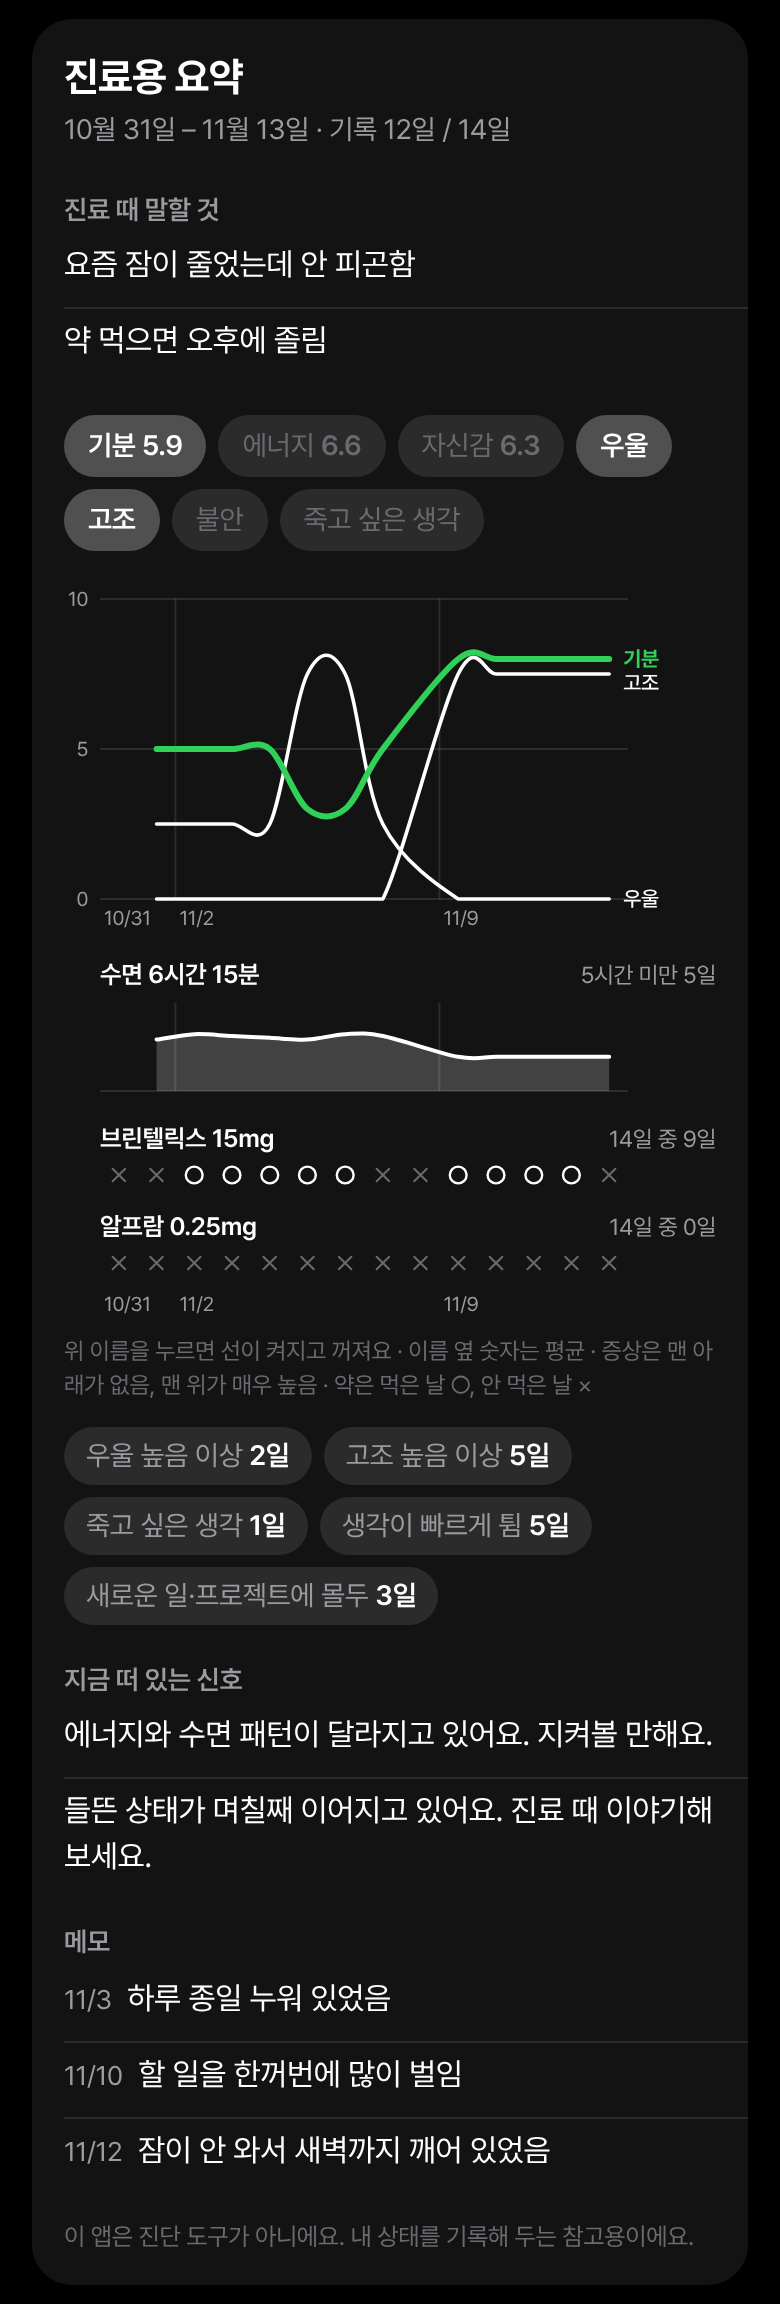
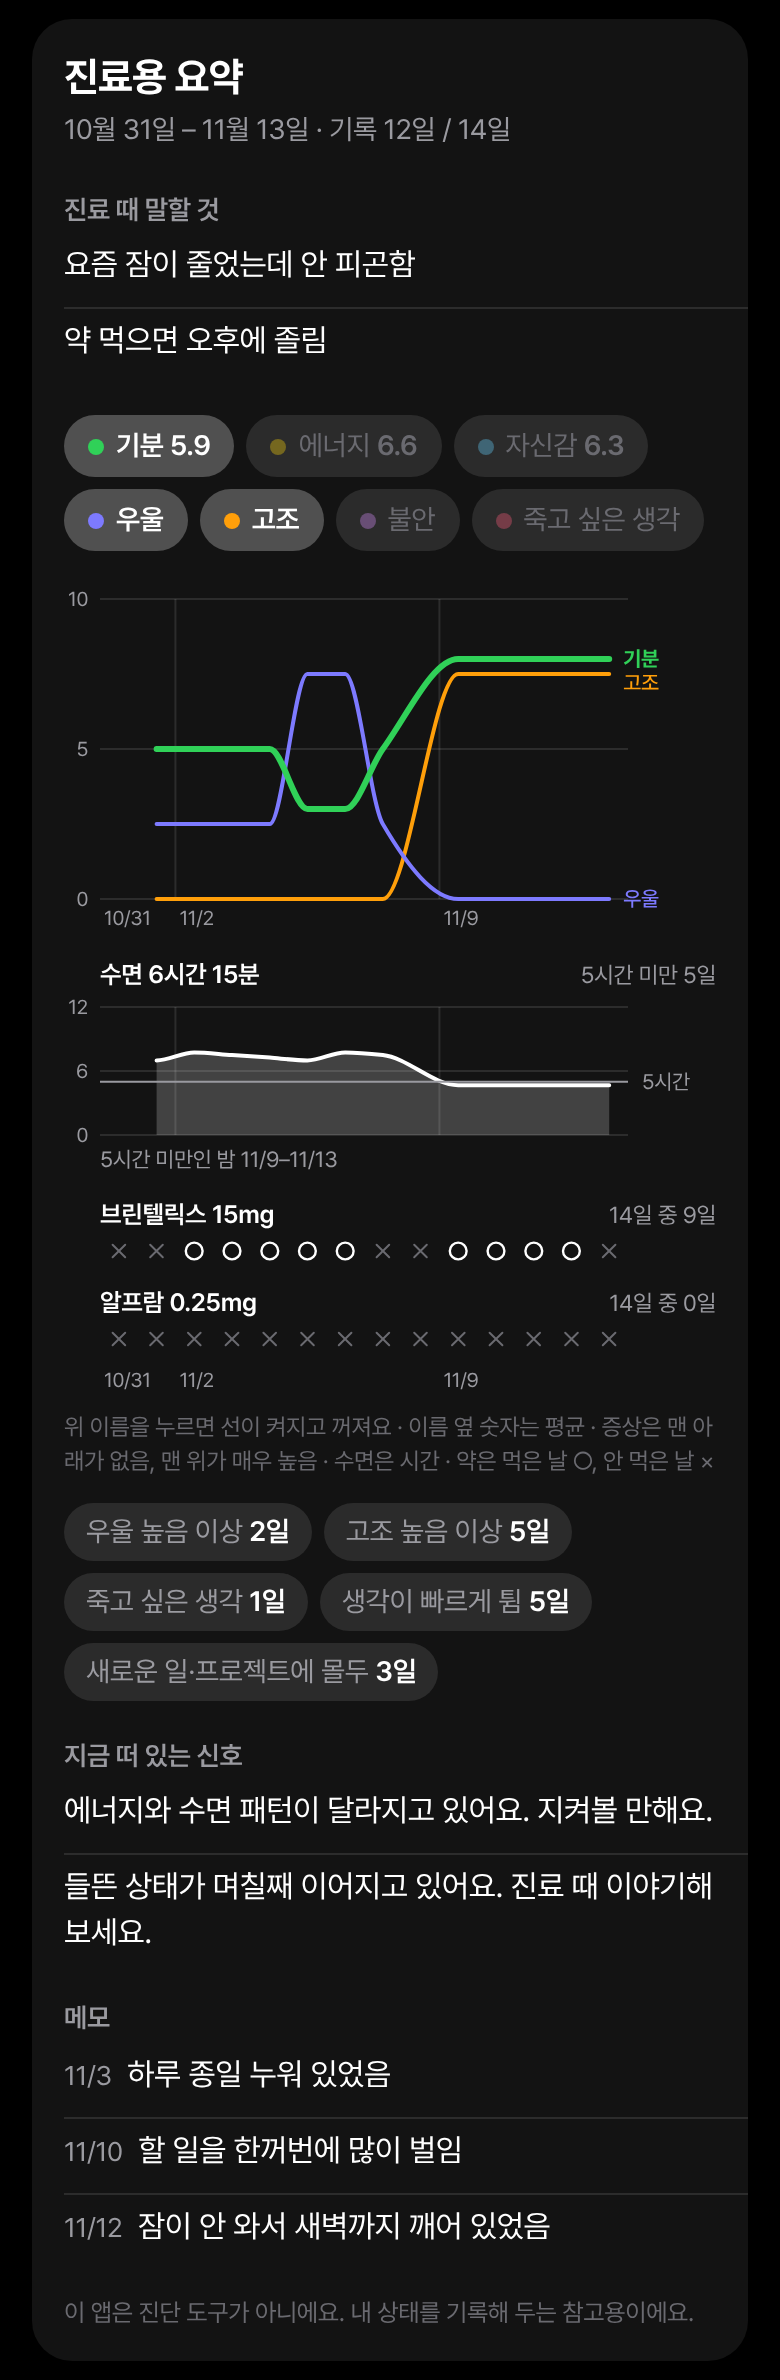
Tide: rounder curves, a colour per line in the clinic chart, and a 5-hour line on sleep
Curves use monotone cubic interpolation, so they settle onto the floor without sharp corners or overshoot (trend screen too). The clinic chart gives each line its own colour because overlapping same-coloured lines could not be told apart; this is the one exception to the single-colour rule and is noted in CLAUDE.md. The sleep row has hour labels, a 5-hour reference line and the dates of short nights in words.

Claude-Session: https://claude.ai/code/session_01Du4KAy7crrN67i73oW7iBF

diff --git a/mood/js/views/clinic.js b/mood/js/views/clinic.js
@@ -1,5 +1,5 @@
 // 진료 화면: 다음 진료일, 진료 때 말할 것, 진료용 요약 (최근 2주/4주를 한 장으로)
-import { summary } from '../analysis.js';
+import { SHORT_SLEEP, summary } from '../analysis.js';
 import { DISCLAIMER, LEVELS } from '../constants.js';
 import { durText, md, parse, today } from '../dates.js';
 import { app, esc } from '../dom.js';
@@ -31,6 +31,19 @@ const lineDefs = () => [
   ['dep', T('우울'), 4], ['elev', T('고조'), 4], ['anx', T('불안'), 4], ['si', T('죽고 싶은 생각'), 4],
 ];
 
+// 선마다 색이 다르다 (한 그래프에 여러 선을 겹쳐도 구분되도록, 이 그래프에서만). 기분은 설정에서 고른 색.
+const lineColor = (key) => (key === 'mood' ? tone('mood', 10) || 'var(--ink)' : `var(--l-${key})`);
+
+// 이어진 날짜는 묶어서 적는다: 11/9–11/13, 11/20
+function dateRanges(list) {
+  const runs = [];
+  list.forEach((d) => {
+    const last = runs[runs.length - 1];
+    if (last && Math.round((parse(d) - parse(last[1])) / 86400000) === 1) last[1] = d; else runs.push([d, d]);
+  });
+  return runs.map(([a, b]) => (a === b ? shortDate(a) : `${shortDate(a)}–${shortDate(b)}`)).join(', ');
+}
+
 // 한눈에 보는 그림: 날짜를 가로로 맞춰 놓고
 //   큰 그래프 하나(켜 둔 선들, 선 끝에 이름) → 수면(곡선) → 약(먹은 날 ○, 안 먹은 날 ×) → 생리(○)
 // 를 위에서 아래로 쌓는다. 선은 전부 부드러운 실선이다. 색은 CSS 변수를 따라가서 다크·라이트·인쇄에서 그대로 읽힌다.
@@ -39,7 +52,6 @@ function figure(s, width) {
   const n = s.dates.length, L = 18, R = clinicView.lines.includes('si') ? 80 : 44, pw = width - L - R, col = pw / n;
   const cx = (i) => L + col * (i + 0.5);
   const ink = 'style="fill:var(--ink)"', mutedText = 'style="fill:var(--muted)"';
-  const accent = tone('mood', 10) || 'var(--ink)';
   const marks = s.dates.map((d, i) => (i === 0 || parse(d).getDay() === 1 ? i : -1)).filter((i) => i >= 0);
   let out = '', y = 6;
 
@@ -56,10 +68,10 @@ function figure(s, width) {
   });
   const points = (key, yOf) => s.days.map((e, i) => (e && e[key] != null ? [cx(i), yOf(e[key])] : null)).filter(Boolean);
   // 값이 있는 날들을 부드러운 곡선으로 잇는다 (하루뿐이면 점 하나). area가 있으면 곡선 아래를 옅게 채운다.
-  const curve = (pts, yMin, yMax, color, w, area) => {
+  const curve = (pts, color, w, areaTo) => {
     if (pts.length < 2) { pts.forEach((p) => { out += `<circle cx="${p[0].toFixed(1)}" cy="${p[1].toFixed(1)}" r="2.6" style="fill:${color}"/>`; }); return; }
-    const d = smoothPath(pts, yMin, yMax);
-    if (area) out += `<path d="${d}L${pts[pts.length - 1][0].toFixed(1)},${yMax}L${pts[0][0].toFixed(1)},${yMax}Z" style="fill:var(--fill)" stroke="none"/>`;
+    const d = smoothPath(pts);
+    if (areaTo) out += `<path d="${d}L${pts[pts.length - 1][0].toFixed(1)},${areaTo}L${pts[0][0].toFixed(1)},${areaTo}Z" style="fill:var(--fill)" stroke="none"/>`;
     out += `<path d="${d}" fill="none" stroke-linejoin="round" stroke-linecap="round" style="stroke:${color}" stroke-width="${w}"/>`;
   };
   const floor = (at) => { out += `<line x1="${L}" x2="${L + pw}" y1="${at}" y2="${at}" style="stroke:var(--line)"/>`; };
@@ -72,9 +84,8 @@ function figure(s, width) {
   lineDefs().filter(([key]) => clinicView.lines.includes(key)).reverse().forEach(([key, name, max]) => {
     const pts = points(key, (v) => sy(v / max * 10));
     if (!pts.length) return;
-    const color = key === 'mood' ? accent : max === 10 ? 'var(--muted)' : 'var(--ink)';
-    curve(pts, top, top + SH, color, key === 'mood' ? 3 : 1.8);
-    ends.push({ name, color, x: pts[pts.length - 1][0] + 7, y: pts[pts.length - 1][1] + 3.5, bold: key === 'mood' });
+    curve(pts, lineColor(key), key === 'mood' ? 3 : 2);
+    ends.push({ name, color: lineColor(key), x: pts[pts.length - 1][0] + 7, y: pts[pts.length - 1][1] + 3.5, bold: key === 'mood' });
   });
   ends.sort((a, b) => a.y - b.y).forEach((e, i) => {
     if (i && e.y < ends[i - 1].y + 12) e.y = ends[i - 1].y + 12;
@@ -83,13 +94,19 @@ function figure(s, width) {
   dateLabels(top + SH + 13);
   y = top + SH + 42;
 
-  // 2. 수면 (0~12시간)
+  // 2. 수면 (0~12시간): 5시간 높이에 기준선을 그어서 그 아래로 내려간 밤이 보이게 하고, 그 날짜를 글로도 적는다
   head(`${T('수면')}${s.sleep ? ` ${durText(Math.round(s.sleep.avg))}` : ''}`, s.shortSleep.length ? F('5시간 미만 {0}일', s.shortSleep.length) : '');
-  const BH = 44, sTop = y + 10, base = sTop + BH;
+  const BH = 64, sTop = y + 12, base = sTop + BH, slY = (m) => base - Math.min(m, 720) / 720 * BH;
+  [0, 6, 12].forEach((h) => { floor(slY(h * 60)); out += `<text x="${L - 6}" y="${slY(h * 60) + 3.5}" font-size="10" text-anchor="end" ${mutedText}>${h}</text>`; });
   weekLines(sTop, base);
-  curve(points('sleepMin', (m) => base - Math.min(m, 720) / 720 * BH), sTop, base, 'var(--ink)', 2, true);
-  floor(base);
-  y = base + 28;
+  curve(points('sleepMin', slY), 'var(--ink)', 2, base);
+  out += `<line x1="${L}" x2="${L + pw}" y1="${slY(SHORT_SLEEP)}" y2="${slY(SHORT_SLEEP)}" style="stroke:var(--muted)"/><text x="${L + pw + 7}" y="${slY(SHORT_SLEEP) + 3.5}" font-size="10.5" ${mutedText}>${T('5시간')}</text>`;
+  y = base + 16;
+  if (s.shortSleep.length) {
+    out += `<text x="${L}" y="${y}" font-size="11" ${mutedText}>${T('5시간 미만인 밤')} ${dateRanges(s.shortSleep)}</text>`;
+    y += 14;
+  }
+  y += 14;
 
   // 3. 약 · 생리: 얇은 선으로 먹은 날 ○, 안 먹은 날 ×
   const r = Math.max(2, Math.min(col / 2 - 1.5, 4.2));
@@ -137,7 +154,7 @@ export function summaryHtml(weeks) {
   const s = summary(weeks), talk = clinicData().notes;
   const width = Math.max(240, Math.min(app.clientWidth, 480) - 32 - 32);
   // 큰 그래프의 선을 켜고 끄는 단추: 기분·에너지·자신감은 평균을 옆에 적는다
-  const toggles = lineDefs().map(([key, name, max]) => `<button class="sum-tog" data-act="clinicLine" data-k="${key}" aria-pressed="${clinicView.lines.includes(key)}">${name}${max === 10 && s[key] ? ` <b>${one(s[key].avg)}</b>` : ''}</button>`).join('');
+  const toggles = lineDefs().map(([key, name, max]) => `<button class="sum-tog" data-act="clinicLine" data-k="${key}" aria-pressed="${clinicView.lines.includes(key)}"><i style="background:${lineColor(key)}"></i>${name}${max === 10 && s[key] ? ` <b>${one(s[key].avg)}</b>` : ''}</button>`).join('');
   // 눈에 띄는 것은 짧은 딱지로: 며칠인지만 적는다
   const chips = [
     [T('우울 높음 이상'), s.high.dep.length], [T('고조 높음 이상'), s.high.elev.length], [T('불안 높음 이상'), s.high.anx.length],
@@ -148,7 +165,7 @@ export function summaryHtml(weeks) {
     ${talk.length ? `<div class="sum-h">${T('진료 때 말할 것')}</div>${talk.map((x) => `<div class="li say">${esc(x)}</div>`).join('')}` : ''}
     <div class="sum-togs">${toggles}</div>
     <div class="sum-fig">${figure(s, width)}</div>
-    <p class="sum-key">${T('위 이름을 누르면 선이 켜지고 꺼져요 · 이름 옆 숫자는 평균 · 증상은 맨 아래가 없음, 맨 위가 매우 높음 · 약은 먹은 날 ○, 안 먹은 날 ×')}</p>
+    <p class="sum-key">${T('위 이름을 누르면 선이 켜지고 꺼져요 · 이름 옆 숫자는 평균 · 증상은 맨 아래가 없음, 맨 위가 매우 높음 · 수면은 시간 · 약은 먹은 날 ○, 안 먹은 날 ×')}</p>
     ${chips ? `<div class="sum-chips">${chips}</div>` : ''}
     ${s.signals.length ? `<div class="sum-h">${T('지금 떠 있는 신호')}</div>${s.signals.map((x) => `<div class="li say">${esc(x)}</div>`).join('')}` : ''}
     ${s.notes.length ? `<div class="sum-h">${T('메모')}</div>${s.notes.map(([d, note]) => `<div class="li say note"><small>${shortDate(d)}</small> ${esc(note)}</div>`).join('')}` : ''}

diff --git a/mood/js/views/trend.js b/mood/js/views/trend.js
@@ -26,15 +26,25 @@ export const mean = (list, key) => {
 export const rangeEntries = (r) => Array.from({ length: r.n }, (_, i) => db.entries[addDays(r.start, i)] || null);
 
 // 점들을 부드러운 곡선으로 잇는다
-export function smoothPath(pts, yMin, yMax) {
+// 꼭대기·바닥·평평한 구간에서는 기울기를 0으로 두어서(단조 3차 곡선), 선이 값 밖으로 튀지 않고
+// 바닥에 닿을 때도 뾰족하게 꺾이지 않고 둥글게 내려앉는다.
+export function smoothPath(pts) {
   if (!pts.length) return '';
+  const n = pts.length, slope = [], tan = [];
+  for (let i = 0; i < n - 1; i++) slope.push((pts[i + 1][1] - pts[i][1]) / (pts[i + 1][0] - pts[i][0]));
+  for (let i = 0; i < n; i++) {
+    const a = slope[i - 1], b = slope[i];
+    if (a == null || b == null) tan.push(0);
+    else if (a * b <= 0) tan.push(0);
+    else {
+      const h0 = pts[i][0] - pts[i - 1][0], h1 = pts[i + 1][0] - pts[i][0];
+      tan.push(3 * (h0 + h1) / ((2 * h1 + h0) / a + (h1 + 2 * h0) / b));
+    }
+  }
   let d = `M${pts[0][0].toFixed(1)},${pts[0][1].toFixed(1)}`;
-  const clamp = (y) => Math.max(yMin, Math.min(yMax, y));
-  for (let i = 0; i < pts.length - 1; i++) {
-    const p0 = pts[i - 1] || pts[i], p1 = pts[i], p2 = pts[i + 1], p3 = pts[i + 2] || p2;
-    const c1 = [p1[0] + (p2[0] - p0[0]) / 6, clamp(p1[1] + (p2[1] - p0[1]) / 6)];
-    const c2 = [p2[0] - (p3[0] - p1[0]) / 6, clamp(p2[1] - (p3[1] - p1[1]) / 6)];
-    d += `C${c1[0].toFixed(1)},${c1[1].toFixed(1)} ${c2[0].toFixed(1)},${c2[1].toFixed(1)} ${p2[0].toFixed(1)},${p2[1].toFixed(1)}`;
+  for (let i = 0; i < n - 1; i++) {
+    const p1 = pts[i], p2 = pts[i + 1], h = (p2[0] - p1[0]) / 3;
+    d += `C${(p1[0] + h).toFixed(1)},${(p1[1] + tan[i] * h).toFixed(1)} ${(p2[0] - h).toFixed(1)},${(p2[1] - tan[i + 1] * h).toFixed(1)} ${p2[0].toFixed(1)},${p2[1].toFixed(1)}`;
   }
   return d;
 }
@@ -95,7 +105,7 @@ export function viewTrend() {
     let out = `<defs><linearGradient id="g-${key}" x1="0" y1="0" x2="0" y2="1"><stop offset="0" stop-color="${ink}" stop-opacity=".26"/><stop offset="1" stop-color="${ink}" stop-opacity="0"/></linearGradient></defs>`;
     out += grid(ticks, y);
     if (pts.length > 1) {
-      const d = smoothPath(pts, TOP, BOT);
+      const d = smoothPath(pts);
       out += `<path d="${d}L${pts[pts.length - 1][0].toFixed(1)},${BOT}L${pts[0][0].toFixed(1)},${BOT}Z" fill="url(#g-${key})"/>
         <path d="${d}" fill="none" stroke="${ink}" stroke-width="${isWeek ? 2.5 : 2}" stroke-linecap="round" stroke-linejoin="round"/>`;
     }

diff --git a/mood/app.css b/mood/app.css
@@ -36,11 +36,24 @@
   --safe-b: env(safe-area-inset-bottom, 0px);
   --round: ui-rounded, "SF Pro Rounded", var(--font, -apple-system, BlinkMacSystemFont, sans-serif);
   --blur: blur(26px) saturate(150%);
+  /* 진료용 요약의 큰 그래프에서만 쓰는 선 색 (여러 선을 겹쳐도 구분되도록) */
+  --l-energy: #ffd60a;
+  --l-conf: #64d2ff;
+  --l-dep: #7d7aff;
+  --l-elev: #ff9f0a;
+  --l-anx: #da8fff;
+  --l-si: #ff5c7a;
 }
 :root[data-theme=light] {
   color-scheme: light;
   /* 라이트는 대비를 낮춘다: 새까만 색 대신 짙은 회색, 바탕은 아이폰 설정 화면의 옅은 회색 */
   --bg: #f2f2f7;
+  --l-energy: #d19a00;
+  --l-conf: #1e96d1;
+  --l-dep: #5856d6;
+  --l-elev: #f07800;
+  --l-anx: #af52de;
+  --l-si: #e6294f;
   --ink: #3a3a3c;
   --ink-inv: #fff;
   --text: #1d1d1f;
@@ -339,7 +352,8 @@ input[type=date] { border: 0; outline: none; background: var(--card2); color: va
 
 /* 인쇄·PDF: 요약 한 장만, 흰 바탕에 검은 글씨로 */
 @media print {
-  :root, :root[data-theme=light] { --bg: #fff; --text: #000; --ink: #000; --muted: #444; --faint: #777; --line: #ccc; --card: transparent; --card2: transparent; --shadow: none; }
+  :root, :root[data-theme=light] { --bg: #fff; --text: #000; --ink: #000; --muted: #444; --faint: #777; --line: #ccc; --card: transparent; --card2: transparent; --shadow: none;
+    --l-energy: #d19a00; --l-conf: #1e96d1; --l-dep: #5856d6; --l-elev: #f07800; --l-anx: #af52de; --l-si: #e6294f; }
   body::before, .tabbar, .toast, .sheet { display: none !important; }
   body * { visibility: hidden; }
   #summary, #summary * { visibility: visible; }
@@ -368,6 +382,8 @@ input[type=date] { border: 0; outline: none; background: var(--card2); color: va
 .sum-togs { display: flex; flex-wrap: wrap; gap: 6px; padding: 16px 16px 0; }
 .sum-tog { background: var(--card2); border-radius: 999px; padding: 6px 12px; font-size: calc(12.5px * var(--fs, 1.12)); color: var(--faint); }
 .sum-tog b { font-family: var(--round); font-weight: 600; }
+.sum-tog i { display: inline-block; width: 8px; height: 8px; border-radius: 50%; margin-right: 6px; opacity: .35; }
+.sum-tog[aria-pressed=true] i { opacity: 1; }
 .sum-tog[aria-pressed=true] { background: var(--sel); color: var(--text); font-weight: 600; }
 .sum-fig { padding: 18px 16px 0; }
 .sum-fig svg { display: block; overflow: visible; font-family: inherit; }

diff --git a/mood/js/i18n.js b/mood/js/i18n.js
@@ -50,7 +50,9 @@ const DICT = {
   '추가': 'Add',
   '진료용 요약': 'Summary for your appointment',
   '평균 (가장 낮은 날–가장 높은 날)': 'Average (lowest–highest day)',
-  '위 이름을 누르면 선이 켜지고 꺼져요 · 이름 옆 숫자는 평균 · 증상은 맨 아래가 없음, 맨 위가 매우 높음 · 약은 먹은 날 ○, 안 먹은 날 ×': 'Tap a name above to show or hide its line · numbers beside names are averages · symptoms run from none at the bottom to very high at the top · medication: ○ taken, × not taken',
+  '위 이름을 누르면 선이 켜지고 꺼져요 · 이름 옆 숫자는 평균 · 증상은 맨 아래가 없음, 맨 위가 매우 높음 · 수면은 시간 · 약은 먹은 날 ○, 안 먹은 날 ×': 'Tap a name above to show or hide its line · numbers beside names are averages · symptoms run from none at the bottom to very high at the top · sleep is in hours · medication: ○ taken, × not taken',
+  '5시간': '5 h',
+  '5시간 미만인 밤': 'Nights under 5 h:',
   '5시간 미만 {0}일': 'Under 5 h on {0} days',
   '눈에 띄는 날': 'Days that stand out',
   '지금 떠 있는 신호': 'Current signals',

diff --git a/mood/sw.js b/mood/sw.js
@@ -1,7 +1,7 @@
 // 오프라인에서도 열리도록 앱 파일을 저장해 둔다.
 // 인터넷이 될 때는 항상 최신 파일을 먼저 받아오고, 안 될 때만 저장본을 쓴다.
 // 앱 파일을 바꿔서 올릴 때마다 CACHE 숫자를 하나 올린다. js/ 에 파일을 더하면 JS 목록에도 더한다.
-const CACHE = 'tide-v48';
+const CACHE = 'tide-v49';
 const JS = ['main', 'config', 'i18n', 'constants', 'store', 'dates', 'theme', 'icons', 'dom', 'state', 'meds', 'analysis', 'files', 'render', 'swipe', 'lock',
   'views/today', 'views/trend', 'views/insight', 'views/record', 'views/settings', 'views/clinic', 'views/notes'];
 const FILES = ['./', 'index.html', 'app.css', 'manifest.webmanifest',

diff --git a/mood/js/config.js b/mood/js/config.js
@@ -2,4 +2,4 @@
 export const KEY = 'tide.v1', OLD_KEY = 'harugyeol.v1';
 
 // 설정 화면 맨 아래에 보이는 번호. 올릴 때마다 sw.js의 CACHE 숫자와 같이 하나 올린다.
-export const VERSION = 48;
+export const VERSION = 49;

diff --git a/CLAUDE.md b/CLAUDE.md
@@ -34,6 +34,7 @@
 - 트위터 연동, 앱이 직접 AI를 부르는 기능, 위젯은 하지 않는다 (서버·비용·데이터 유출 때문에 사용자가 접음 / 웹앱으로 불가).
 - 알림은 캘린더 파일(.ics)로 대신한다.
 - 색은 하나만 쓴다 (기분·에너지·자신감 공통, 수면은 무채색). 배경 빛은 왼쪽 위 하나.
+  예외: 진료용 요약의 큰 그래프는 선마다 색이 다르다 (`--l-*`). 한 그래프에 겹친 선이 "구분이 안 간다"고 해서 넣었다 (2026-11-13).
 - 말투는 차분하게, 판단이 아니라 관찰로. 겁주는 문구를 쓰지 않는다.
 - "죽고 싶은 생각"은 다른 증상과 같은 5단계로 적는다 (사용자가 요청, 2026-11-13). 높음 이상인 날 오늘 화면에 109 상담전화를 한 줄로 조용히 보여 주는 것 말고는 따로 막거나 경고하지 않는다.
 - 잠금은 4자리 숫자 가림막이다 (암호화 아님). 잊으면 기록을 지우고 새로 시작하는 길만 있다. 백업 파일에는 비밀번호를 넣지 않는다.
